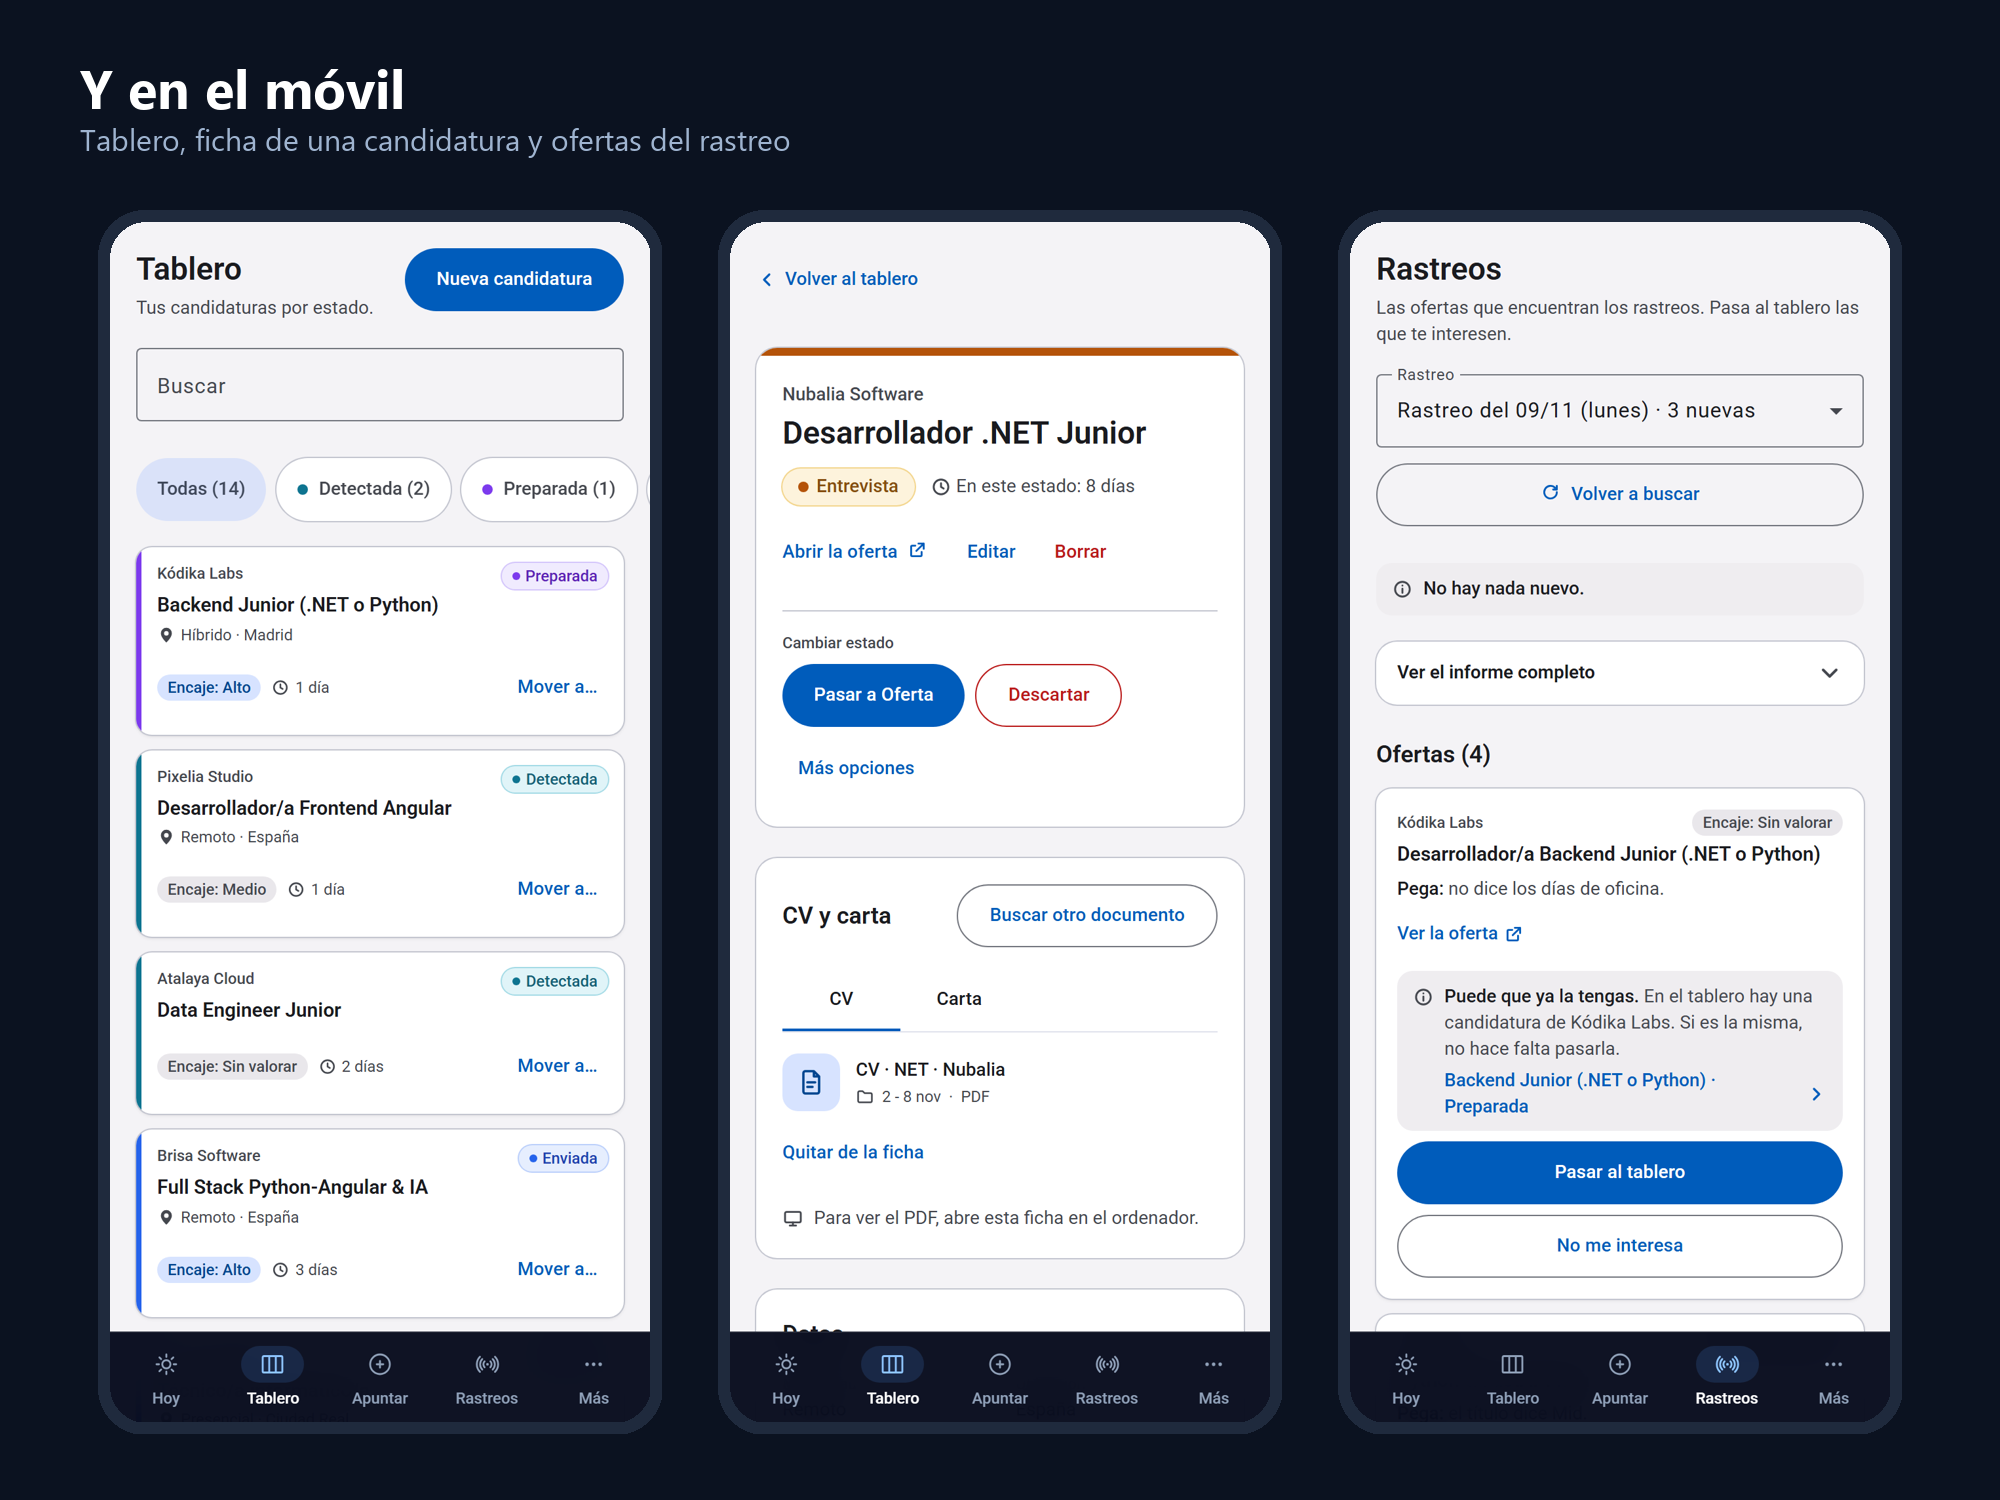
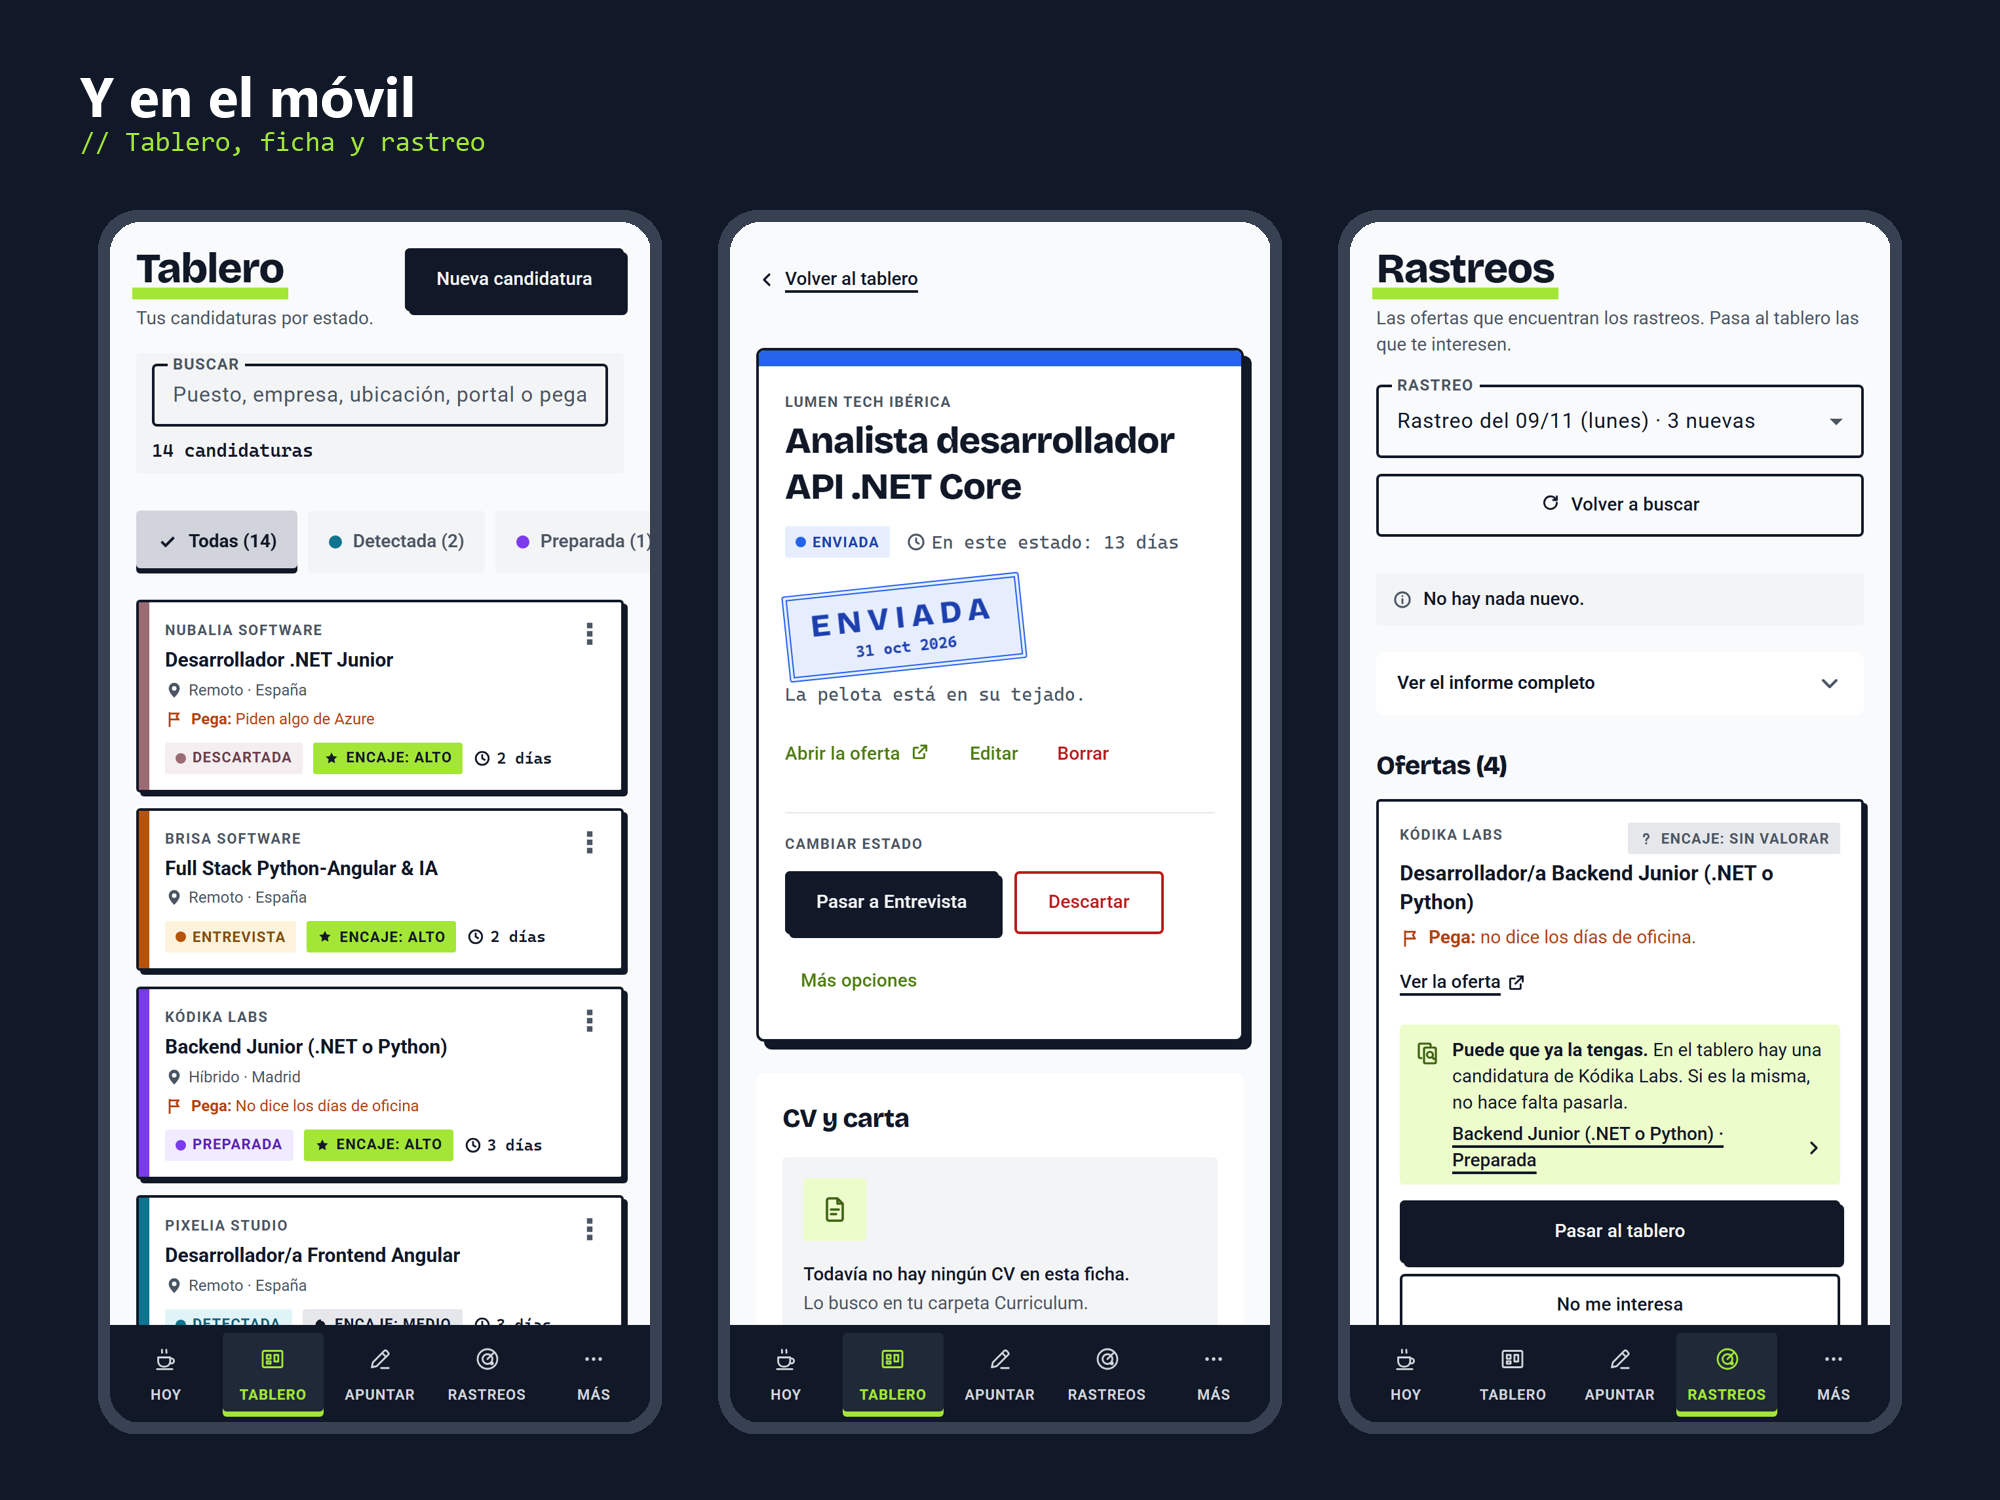
README: capturas del rediseño, modo oscuro y Deshacer

diff --git a/README.md b/README.md
@@ -8,16 +8,20 @@ Aplicación para llevar mi propia búsqueda de empleo: un tablero con las candid
 
 ![RadarEmpleo en el móvil: tablero, ficha y rastreo](docs/img/movil.png)
 
+![Tablero de RadarEmpleo en modo oscuro](docs/img/tablero-oscuro.png)
+
 _Las capturas son con datos de ejemplo._
 
 ## Qué hace
 
-- **Tablero por estados**: Detectada, Preparada, Enviada, Entrevista, Oferta, Descartada y Cerrada. Las transiciones válidas las decide el dominio, no el front.
+- **Tablero por estados**: Detectada, Preparada, Enviada, Entrevista, Oferta, Descartada y Cerrada. Las transiciones válidas las decide el dominio, no el front. Se mueve arrastrando o con el menú ⋮, y las columnas sin uso se pliegan para que todo quepa sin desplazamiento lateral.
+- **Deshacer**: cualquier cambio de estado se puede deshacer durante 10 minutos desde el aviso o con Ctrl+Z. Vuelve exactamente a como estaba: fechas, motivo de descarte y seguimientos.
 - **Ficha de candidatura**: historial de estados, notas, motivo de descarte y los documentos enviados (CV y carta), que se abren dentro de la propia ficha.
 - **Importar del registro**: importa la tabla de candidaturas que llevaba a mano en Markdown, con vista previa y sin duplicar lo que ya está.
 - **Rastreos**: lee los informes semanales de ofertas y deja pasar al tablero las que interesan. Si la empresa ya tiene una candidatura, avisa antes de duplicarla.
 - **Perfil de búsqueda**: muestra los filtros y el stack con los que se valoran las ofertas.
 - **Pensada para el móvil**: navegación inferior, zonas de toque de 48 px y textos sin jerga.
+- **Diseño propio**: neobrutalismo con grises y lima, en modo claro y oscuro, con contraste AA. La guía está en [docs/DISENO.md](docs/DISENO.md).
 
 ## Stack
 
